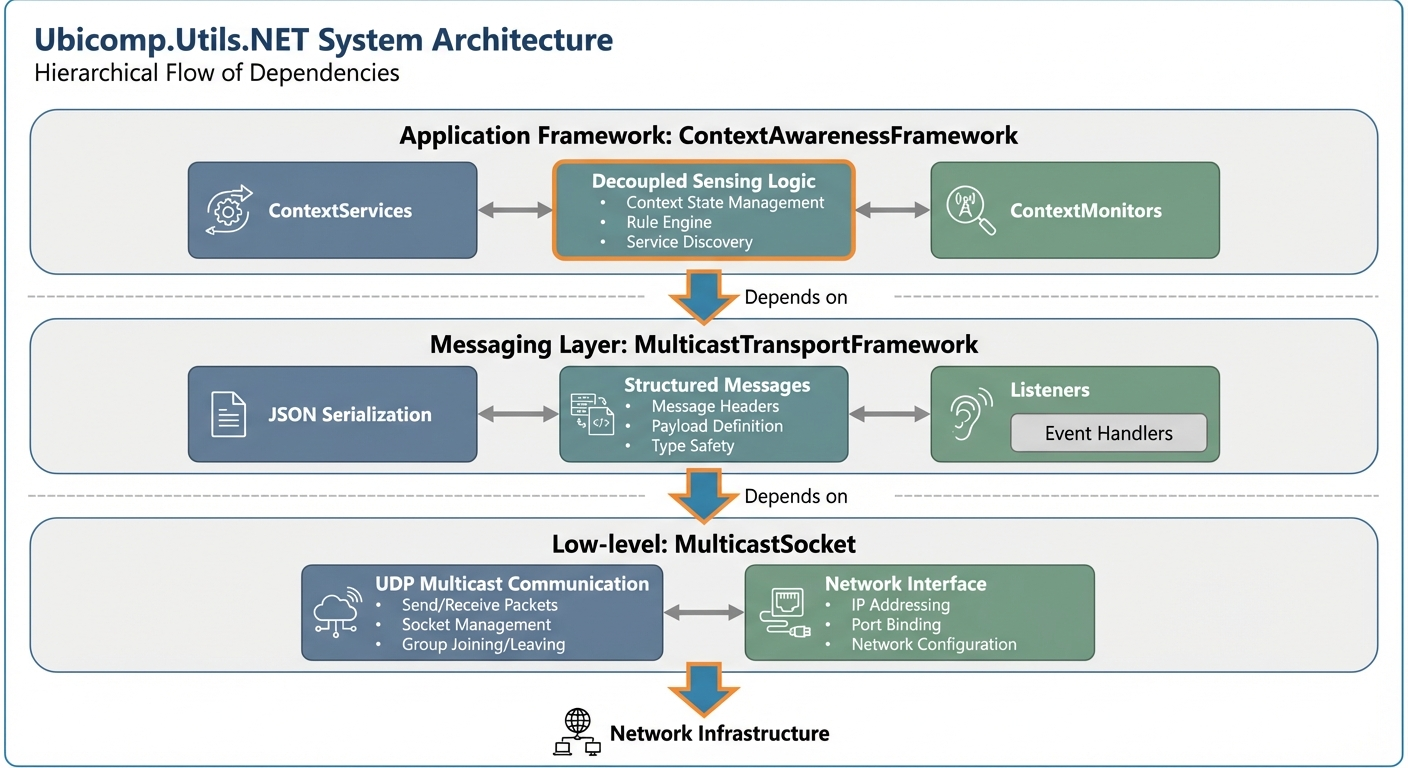
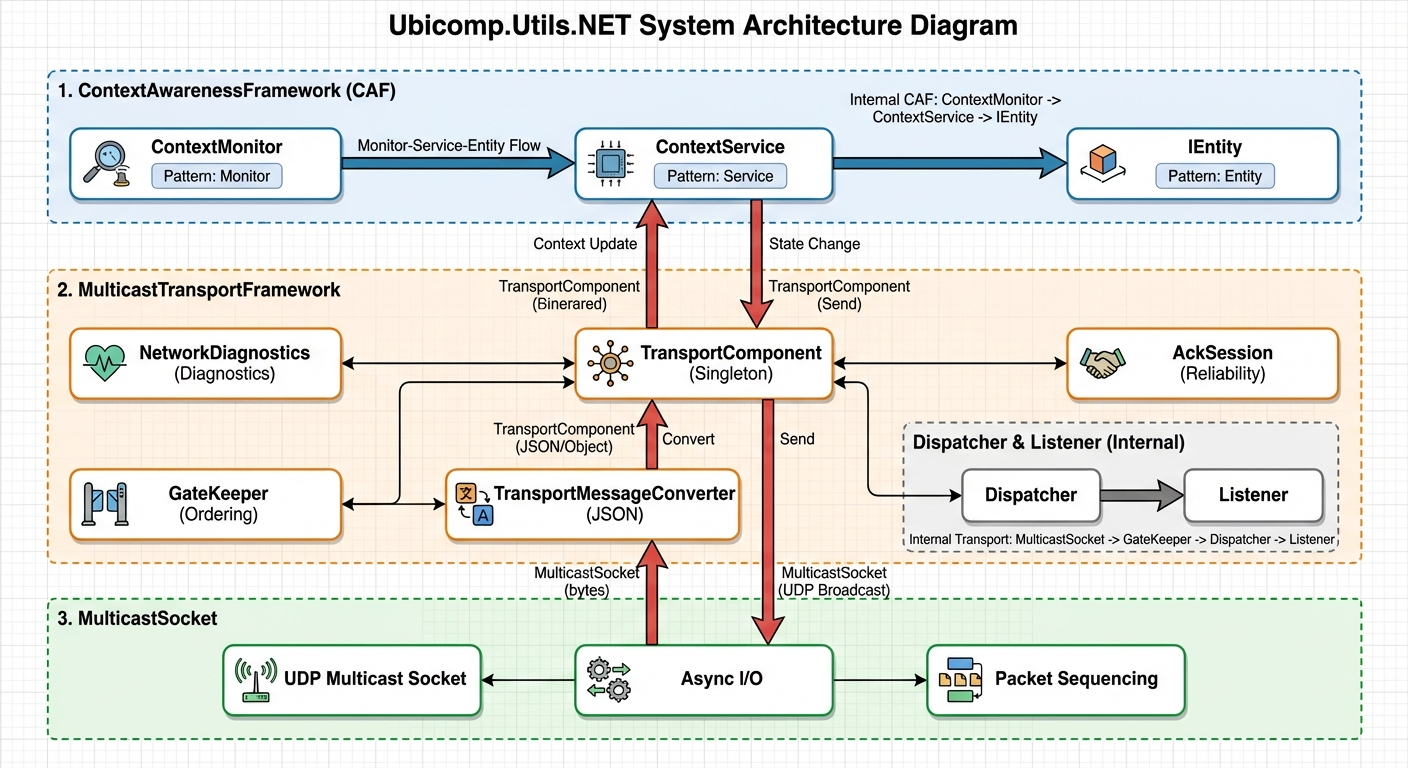
Updates documentation

diff --git a/README.md b/README.md
@@ -1,22 +1,51 @@
 # Ubicomp.Utils.NET
 
-A set of libraries to ease the creation of context aware and networked applications on the .NET environment.
+A collection of .NET libraries designed to facilitate the development of context-aware and networked applications. It abstracts complex networking, messaging, and data management tasks into a layered, reusable architecture.
 
 Created By: Juan David Hincapie-Ramos - http://blog.jhincapie.com
 
 ## Architecture
+The project follows a layered architecture, ranging from low-level network transport to high-level context management.
+
 ![System Architecture Diagram](assets/system_architecture_diagram.png)
+
+### 1. ContextAwarenessFramework (CAF)
+The top layer implements the **Monitor-Service-Entity (MSE)** pattern.
+- **ContextMonitors** collect raw data from sensors or external APIs.
+- **ContextServices** aggregate monitor data, implement business logic, and handle persistence.
+- **IEntities** represent the context data models, providing thread-safe change notifications.
+
+### 2. MulticastTransportFramework
+The middle layer provides a structured messaging protocol over UDP multicast.
+- **TransportComponent**: The central orchestrator (Singleton).
+- **Serialization**: Automated JSON serialization/deserialization with polymorphic support.
+- **Ordering (GateKeeper)**: Ensures messages are processed in the exact order they were received, even in asynchronous environments.
+- **Reliability (Ack)**: Optional acknowledgement-based sessions for reliable message delivery.
+- **Diagnostics**: Built-in tools for network sanity and firewall checks.
+
+### 3. MulticastSocket
+The foundational layer that wraps standard .NET UDP sockets.
+- **Group Management**: Simplified joining and leaving of multicast groups.
+- **Sequencing**: Automatically assigns sequence numbers to incoming packets for higher-level ordering.
+- **Performance**: Optimized async I/O and buffer management.
 
 ## Project Documentation
 *   [**MulticastSocket**](MulticastSocket/README.md): Low-level multicast networking wrapper.
 *   [**MulticastTransportFramework**](MulticastTransportFramework/README.md): High-level messaging and transport layer.
 *   [**ContextAwarenessFramework**](ContextAwarenessFramework/README.md): Framework for context sensing and data management.
 
+## Core Flow
+1.  **Network Receive**: `MulticastSocket` receives bytes and assigns a sequence ID.
+2.  **Transport Processing**: `TransportComponent` deserializes the JSON into a typed `TransportMessage`.
+3.  **Ordered Dispatch**: The `GateKeeper` holds the message until its sequence ID is next, then dispatches it to registered `ITransportListener`s.
+4.  **Context Update**: A `ContextService` (acting as a listener) receives the message and updates its `IEntity` state.
+5.  **UI Notification**: The `ContextService` uses a captured `Dispatcher` to safely notify UI components of the change.
+
 ## Modernization Status
-This project has been modernized to target .NET Standard 2.0 and .NET 8.0.
-*   **Serialization**: Migrated from `Jayrock` to `Newtonsoft.Json`.
-*   **Logging**: Migrated from `log4net` to `Microsoft.Extensions.Logging`.
-*   **Dependencies**: All dependencies are now managed via NuGet; the legacy `Libs` folder has been removed.
+This project targets **.NET Standard 2.0** for core libraries (for broad compatibility) and **.NET 8.0** for applications and tests.
+- **Serialization**: `Newtonsoft.Json`.
+- **Logging**: `Microsoft.Extensions.Logging`.
+- **Dependencies**: Managed via NuGet.
 
 ## How to Run
 

diff --git a/ContextAwarenessFramework/README.md b/ContextAwarenessFramework/README.md
@@ -9,26 +9,33 @@ The **ContextAwarenessFramework** provides a standard structure for:
 3.  **Data Modeling**: Representing context using `IEntity` objects.
 4.  **Notification**: Thread-safe updates via observer pattern.
 
+## Architecture
+The framework follows the **Monitor-Service-Entity (MSE)** pattern, designed to decouple data acquisition from business logic and data presentation.
+
+![MSE Pattern Diagram](assets/mse_pattern_diagram.png)
+
 ## Key Components
 
 ### ContextMonitor
 Abstract base class for data producers.
-- **Update Types**: Continuous, Interval, or OnRequest.
-- **Events**: Fires `OnNotifyContextServices` when new data is available.
+- **Update Types**: Continuous (event-based), Interval (polling), or OnRequest.
+- **Threading**: Monitors typically run their own background loop to avoid blocking the main application.
 - **Usage**: Inherit from this to create specific sensors (e.g., `LocationMonitor`, `BatteryMonitor`).
 
 ### ContextService
 Abstract base class for data consumers/managers.
-- **Implements**: `IContextMonitorListener`.
-- **Threading**: Executes updates on the calling monitor's thread. Users can implement their own marshaling if UI updates are needed.
-- **Persistence**: Built-in support for periodic or request-based data saving (`PersistEntities`).
-- **Logging**: Exposes a `Logger` property (defaults to `NullLogger`) for injecting `Microsoft.Extensions.Logging` implementations.
-- **Usage**: Inherit from this to implement logic (e.g., `LocationService` that aggregates GPS and WiFi data).
+- **Data Aggregation**: Subscribes to one or more Monitors to process raw data into high-level context.
+- **Threading (UI Safety)**: The service captures the `Dispatcher` from the thread that created it. When updating state, it marshals calls back to this Dispatcher, ensuring that `ObservableCollection`s and other UI-bound properties can be updated safely from background monitor threads.
+- **Persistence**: Built-in support for multiple persistence patterns:
+    - `Periodic`: Saves state at a regular interval.
+    - `OnRequest`: Saves state only when explicitly called.
+    - `Combined`: Both periodic and on-demand.
+- **Logging**: Injects `Microsoft.Extensions.Logging` for consistent diagnostic output.
 
 ### IEntity
-Interface for data objects.
-- **Implements**: `INotifyPropertyChanged` for data binding support.
-- **Usage**: Define your domain models (e.g., `UserLocation`) implementing this interface.
+Interface for context data objects.
+- **Reactive**: Implements `INotifyPropertyChanged` for seamless integration with WPF/MAUI/Blazor data binding.
+- **Usage**: Define your domain models (e.g., `UserLocation`, `DeviceState`) implementing this interface.
 
 ## Usage Example
 ... (rest of usage) ...

diff --git a/MulticastTransportFramework/README.md b/MulticastTransportFramework/README.md
@@ -10,14 +10,34 @@ The **MulticastTransportFramework** abstracts raw socket communication into a st
 *   **Modern Logging:** Uses `Microsoft.Extensions.Logging` abstractions, allowing you to plug in any logger (Console, Debug, Serilog, etc.).
 *   **Type Safe:** Polymorphic message content support via `KnownTypes` registration.
 
-## System Diagram
-![MulticastTransportFramework System Diagram](assets/system_diagram.png)
+## System Architecture
+![MulticastTransportFramework Flow Diagram](assets/transport_flow_diagram.png)
 
 ## Key Concepts
-- **TransportComponent**: A Singleton class that manages the `MulticastSocket`, serialization settings, and listener routing.
-- **TransportMessage**: The standard envelope for all communication, containing `MessageId`, `Source`, `Type`, and `Data`.
-- **ITransportListener**: Interface for classes that handle specific message types.
-- **TransportMessageConverter**: Handles polymorphic deserialization of `MessageData` using a `KnownTypes` dictionary.
+
+### TransportComponent
+A Singleton class that manages the `MulticastSocket`, serialization settings, and listener routing.
+
+### Ordered Messaging (GateKeeper)
+UDP multicast does not guarantee the order of packets. The framework implements a **GateKeeper** mechanism:
+- Every packet received by the `MulticastSocket` is assigned a consecutive sequence ID.
+- The `TransportComponent` ensures that messages are only dispatched to listeners when their sequence ID matches the expected next ID.
+- This guarantees strict ordering of message processing, even if the underlying async operations complete out of order.
+
+### Reliable Messaging (Ack)
+While primarily built on UDP, the framework supports reliable delivery via an acknowledgement system:
+- **AckMessageContent**: A special message type for acknowledgements.
+- **AckSession**: Manages the lifecycle of a reliable message, including retries and timeout handling.
+- Use `TransportComponent.Instance.SendAck(...)` to send a message that requires confirmation.
+
+### Network Diagnostics
+Multicast can often be blocked by firewalls or network configuration. The framework includes a `NetworkDiagnostics` utility:
+- **Firewall Check**: Checks if common multicast ports are open.
+- **Loopback Test**: Verifies if the local machine can receive its own multicast traffic.
+- **Interface Discovery**: Lists all available network interfaces and their multicast capabilities.
+
+### TransportMessage
+The standard envelope for all communication, containing `MessageId`, `Source`, `Type`, and `Data`.
 
 ## Usage
 
